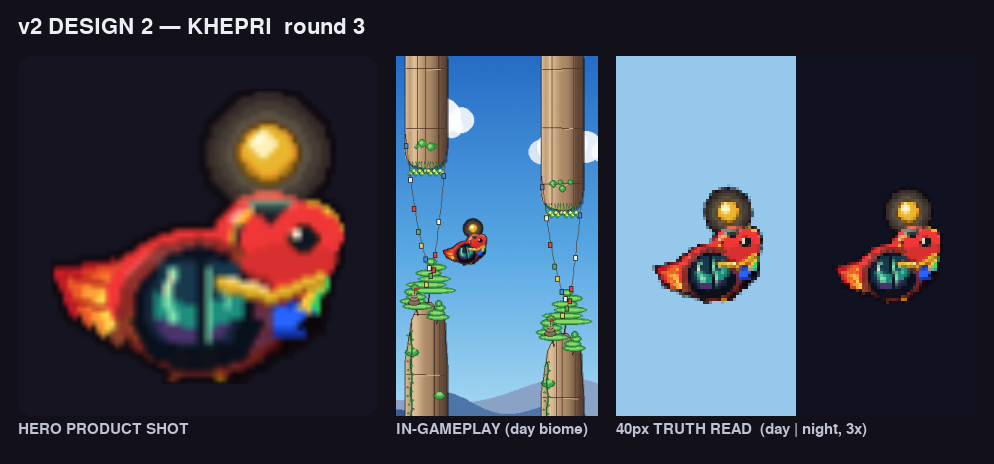
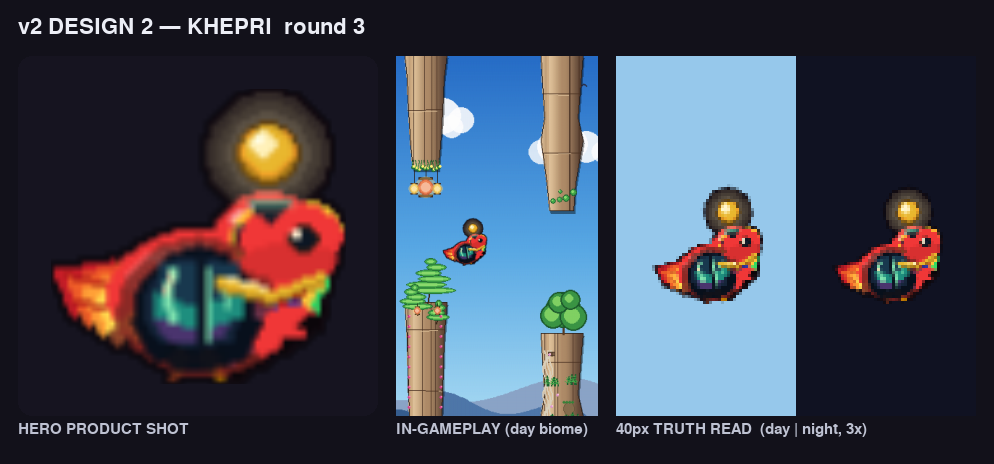
KHEPRI pharaoh R3: scarlet head reclaim, brightest sun, clean dome base
Shrink + warm the eye-mass: overpaint the wide base aviators with Pip
scarlet and stamp one narrow warm-bronze eye, so the scarlet face owns
the head and the shell dome is the only cool-dark mass. Drop the
_KH_RED_MUTE ring to alpha 210 and push its lower-left vertices out so
the sun-disk is the unambiguous brightest warm element. Pull the violet
hem off the rim and re-stroke the lower dome rim, and overpaint Pip's
exposed blue secondary-feather patch right of the dome base so no lone
cool speck reads as noise.

Claude-Session: https://claude.ai/code/session_01HafGQfRZVDiGkQqpJPr5Cm

diff --git a/tools/pharaoh_candidates/v2_design_2.py b/tools/pharaoh_candidates/v2_design_2.py
@@ -162,6 +162,17 @@ def _reface(surf):
     pygame.draw.ellipse(surf, _KH_SEAM, (ecx + 2, ecy - 2, 5, 4))
     pygame.draw.circle(surf, (255, 240, 210), (ecx + 3, ecy - 1), 1)  # life glint
 
+    # Pip's base art carries a small BLUE secondary-feather patch that pokes out
+    # to the right of the dome base; as a lone cool speck below the shell it
+    # reads as noise, so overpaint it scarlet (masked to body alpha) so the body
+    # is uniformly red there and the shell dome is the only cool-dark mass.
+    feather = pygame.Surface(surf.get_size(), pygame.SRCALPHA)
+    pygame.draw.ellipse(feather, _KH_FACE, (ecx - 7, ecy + 14, 18, 14))
+    feather.blit(head_mask.to_surface(setcolor=(255, 255, 255, 255),
+                                      unsetcolor=(0, 0, 0, 0)),
+                 (0, 0), special_flags=pygame.BLEND_RGBA_MULT)
+    surf.blit(feather, (0, 0))
+
 
 def _scarab_notch(surf, cx, cy):
     """ONE bold dark notch directly under the sun-disk — the segmented scarab
